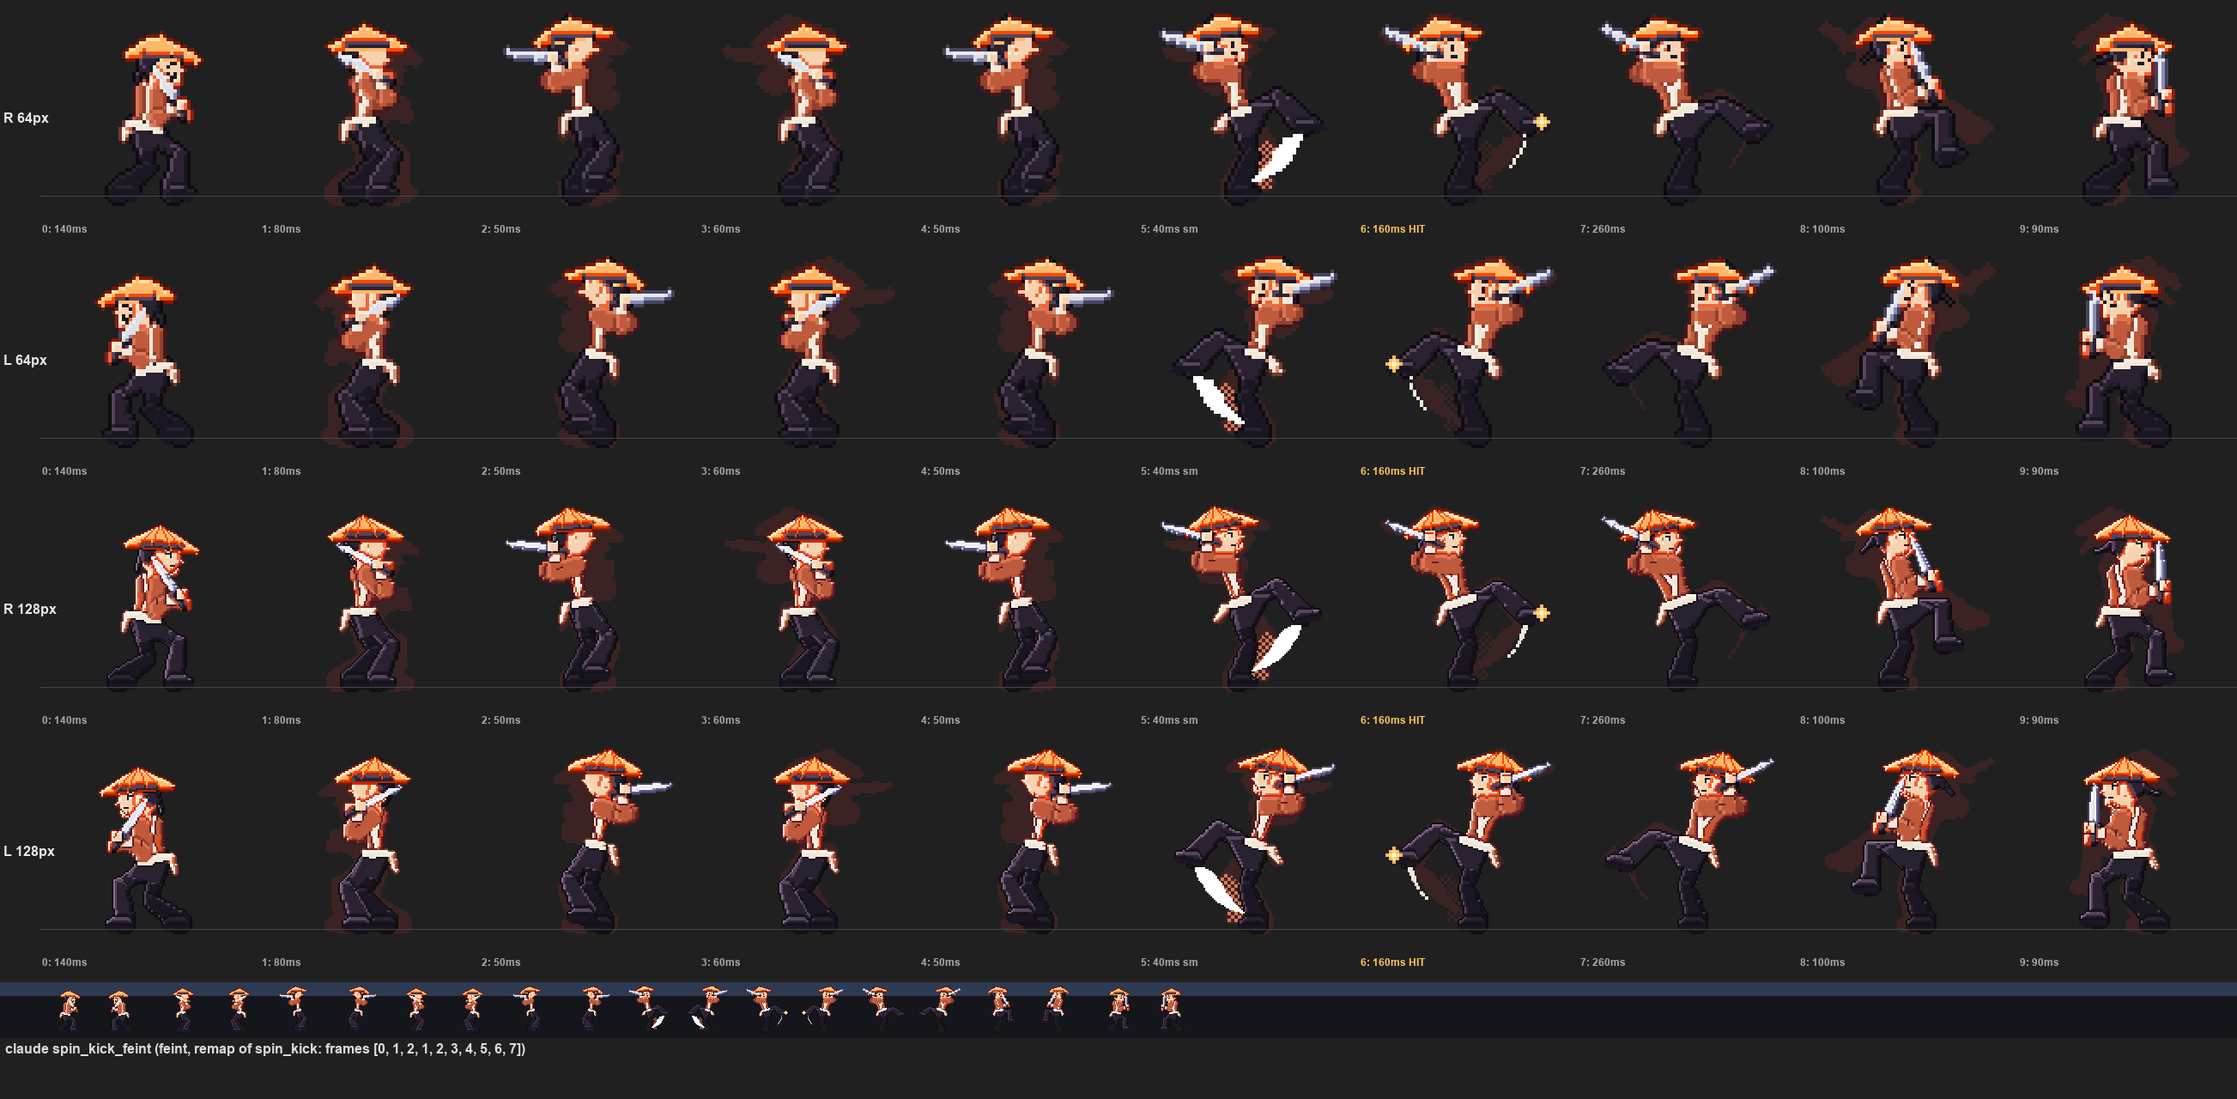
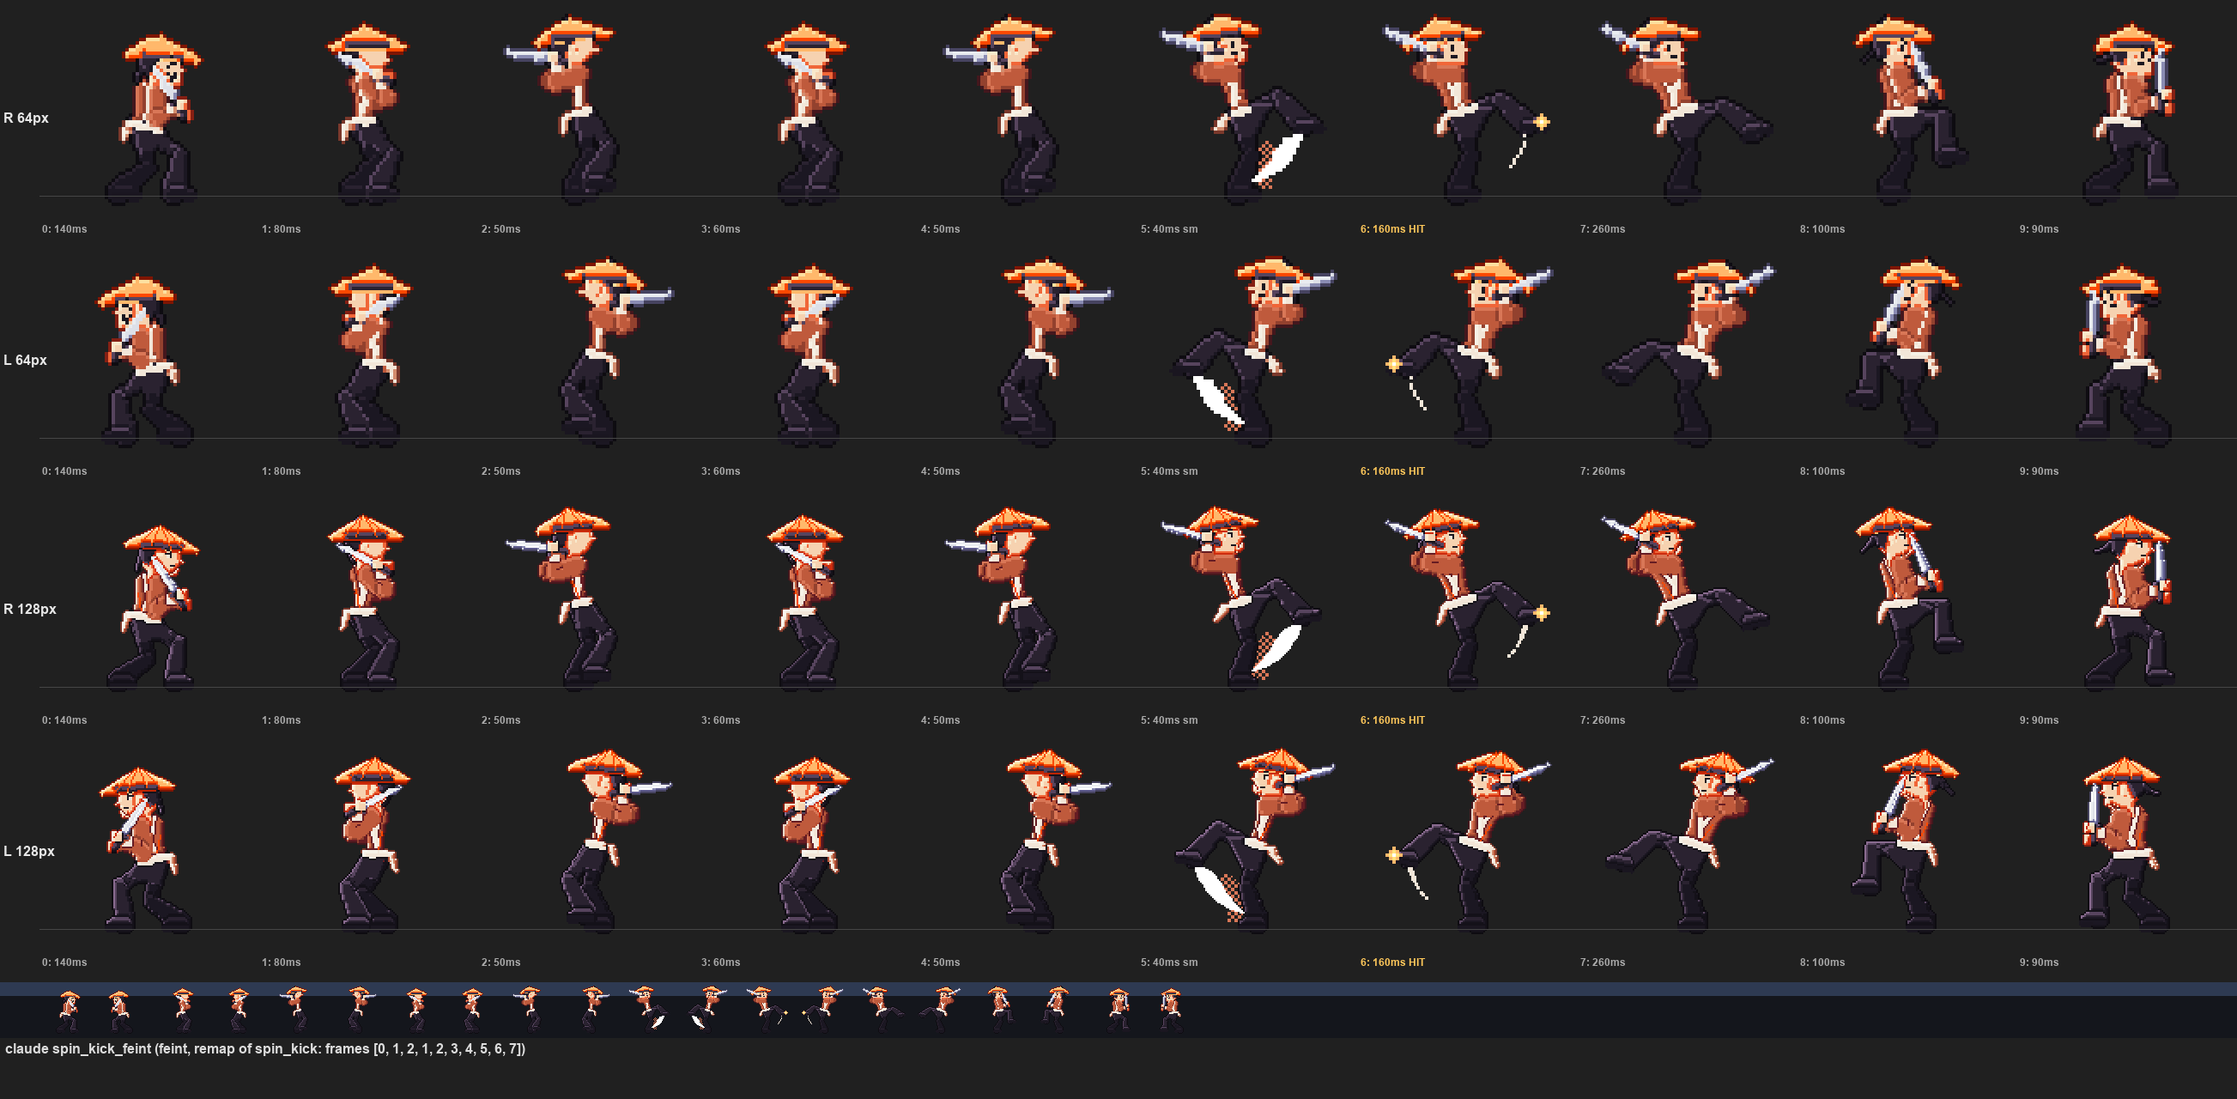
Learning: a spin that really turns, a ghost-pixel budget, clean review sheets
Review of claude-iai_slash_spiral-4x.png against the "super clean" bar:
- spin: the old variant was a side-on coil that read as the base move. It now
  inserts a back-turned frame (the coil drawn from the other facing, hip kept on
  the anchor column: hips and shoulders swap) and sweeps the smear from behind
  the back. QA: a spin must contain a frame matching the base's other facing by
  >= 0.05 IoU more than its own facing, else "never turns the body" (rejects 10
  near-symmetric spins over Claude / Codex / Knight; 11 pass).
- The dark-red smudges were the review sheet's onion skin, not sprite pixels
  (audited: no semi-transparent pixels, no foreign colours, no afterimage keys).
  The onion skin is now opt-in (--onion) and labelled when on, and QA gets a
  ghost-pixel budget: no stray pixels off the body / weapon / effects on any
  non-smear frame unless the key authors an afterimage.
- Fixed while adding it: a reused variable made the reach check skip silently;
  a reach check that cannot run now fails.
- movegen VERSION 2 (cached spins are re-made). 18 previews regenerated, plus
  qa/learning/claude-iai_slash_spiral-before-after.png. Tests: spin must turn,
  an injected afterimage smudge is caught.

diff --git a/art/evolve.py b/art/evolve.py
@@ -37,7 +37,7 @@ if str(Path(__file__).resolve().parent.parent) not in sys.path:      # minis_cor
     sys.path.insert(0, str(Path(__file__).resolve().parent.parent))
 from minis_core.movegen import *  # noqa: F401,F403,E402  (the remap tier, ids, names, timing / silhouette QA, the cache)
 from minis_core.movegen import (_round10, _desc, _mask, _iou, _index_path, _read_index, _write_index,  # noqa: F401,E402
-                                VERSION, REMAP_OPS, RENDER_OPS, OPS, MAX_FRAMES, CACHE_MAX_BYTES, SIZES)
+                                REMAP_OPS, RENDER_OPS, OPS, MAX_FRAMES, CACHE_MAX_BYTES, SIZES)
 
 CAP = {1: 31, 2: 63}                         # colours WITHOUT transparency per RES (art/build_fighters.CAPS minus one)
 _ART = None
@@ -164,21 +164,34 @@ def _pose_variant(character, base, op, seed, src_char=None):
                 ps = replace(ps, hf=(ps.hf[0] * 1.08, ps.hf[1] * 1.08))     # a longer coil
             out.append((ps, ms))
     elif op == 'spin':
+        # a real turn of the whole body: a side-on coil (shoulders square to the camera), then a BACK-TURNED key (the coil
+        # drawn from the other facing: hips and shoulders swapped, the back to the opponent; render_frames swaps that
+        # frame's facings), then the smear sweeps the blade round from behind the back into the contact
+        flip = []
         for i, (ps, ms) in enumerate(frames):
             if i == s0:
                 prev = frames[i - 1][0]
                 wa = (prev.wa if prev.wa is not None else -60.0) + (120.0 if rng.random() < 0.5 else -120.0)
-                spin = replace(prev, turn=0.35, lean=prev.lean - 4, hf=(-prev.hf[0] * 0.8, prev.hf[1]), wa=((wa + 180) % 360) - 180,
-                               face='g', dx=1.0)
-                out.append((spin, 70))
-                ps = replace(ps, smear_f=(spin.hf if ps.smear_f else ps.smear_f), ghost=())
+                side = replace(prev, turn=0.35, lean=prev.lean - 4, hf=(-prev.hf[0] * 0.8, prev.hf[1]), wa=((wa + 180) % 360) - 180,
+                               face='g', dx=1.0, smear_f=(), smear_b=(), smear_ff=(), smear_fb=(), fx=(), ghost=())
+                back = replace(prev, turn=0.7, lean=prev.lean + 2, face='g', dx=1.0, smear_f=(), smear_b=(), smear_ff=(), smear_fb=(),
+                               fx=(), ghost=())
+                out.append((side, 70))
+                flip.append(len(out))
+                out.append((back, 60))
+                if ps.smear_f:                                    # the arc starts far behind the back: a wide crescent
+                    ps = replace(ps, smear_f=(-abs(prev.hf[0]) - 6, prev.hf[1] - 2), ghost=())
+                elif ps.smear_ff:
+                    ps = replace(ps, smear_ff=(-abs(ps.ff[0]) - 4, ps.ff[1]), ghost=())
             out.append((ps, ms))
     else:                                                        # mimic: the poses as the source draws them, this body's weapon
         out = frames
     mv = dict(mv0, frames=out)
     sm2 = [i for i, (ps, _) in enumerate(out) if rig.is_smear(ps)]
     mv['smear_frames'] = sm2
-    mv['hit_frame'] = hf + (1 if op == 'spin' else 0)
+    mv['hit_frame'] = hf + (2 if op == 'spin' else 0)
+    if op == 'spin':
+        mv['flip_frames'] = flip
     ms = [m for _, m in out]
     ms = dedupe(ms, keep=set(sm2))
     mv['frames'] = [(ps, m) for (ps, _), m in zip(out, ms)]
@@ -209,14 +222,28 @@ def _pose_variant(character, base, op, seed, src_char=None):
 
 
 def render_frames(character, mv, res):
-    """The variant's frames through the real builder at `res`: [dict(r, l, buf, pose, ms, meta)]."""
+    """The variant's frames through the real builder at `res`: [dict(r, l, buf, pose, ms, meta)].  A `flip_frames` key
+    (the spin's back-turned frame) is drawn from the other facing: its right and left images swap, shifted so the hip
+    stays on that facing's anchor column, and its part buffer is mirrored the same way (the QA reads it)."""
+    from PIL import Image
     rig, moves, roster, BF = _art()
     ch = roster.get(character)
     rig.set_res(res)
     try:
-        return BF.render_move(ch, '_learned', mv, None)
+        fr = BF.render_move(ch, '_learned', mv, None)
+        cw, hip = rig.cell_px(), rig.hip_x_px()
     finally:
         rig.set_res(1)
+    shift = hip - (cw - 1 - hip)                       # where the left sheet's hip sits, relative to the right sheet's
+    for i in mv.get('flip_frames') or ():
+        f = fr[i]
+        r2, l2 = Image.new('RGBA', f['r'].size, (0, 0, 0, 0)), Image.new('RGBA', f['l'].size, (0, 0, 0, 0))
+        r2.paste(f['l'], (shift, 0))
+        l2.paste(f['r'], (-shift, 0))
+        b2 = Image.new(f['buf'].mode, f['buf'].size, 0)
+        b2.paste(f['buf'].transpose(Image.FLIP_LEFT_RIGHT), (shift, 0))
+        fr[i] = dict(f, r=r2, l=l2, buf=b2, flipped=True)
+    return fr
 
 
 # ---------------------------------------------------------------- QA on rendered frames
@@ -240,7 +267,26 @@ def novelty(frames, base_frames):
     return min(max(_iou(_mask(f['r']), b) for b in bm) for f in frames)
 
 
-def qa(character, mv, frames, res, base_palette, idle_frame, min_reach=10.0, base_frames=None):
+SPIN_TURN_MIN = 0.05          # the spin's back-turned frame must match the base's other facing by this margin
+GHOST_BUDGET = 0              # stray opaque pixels allowed off the body / weapon / effects on a non-smear frame
+
+
+def ghost_pixels(im, buf):
+    """Opaque pixels of a frame that no rig part (body, weapon, cloth, effect) covers and that are not the 1 px outline
+    around one: afterimage copies, smudges.  `buf` is the rig's part-id buffer of the same frame."""
+    a, b = im.getchannel('A').load(), buf.load()
+    w, h = im.size
+    n = 0
+    for y in range(h):
+        for x in range(w):
+            if a[x, y] and not b[x, y]:
+                if not any(0 <= x + dx < w and 0 <= y + dy < h and b[x + dx, y + dy]
+                           for dx in (-2, -1, 0, 1, 2) for dy in (-2, -1, 0, 1, 2)):
+                    n += 1
+    return n
+
+
+def qa(character, mv, frames, res, base_palette, idle_frame, min_reach=10.0, base_frames=None, base_frames_l=None):
     """-> [failures] for one rendered variant at `res` (empty = clean).  `frames` from render_frames; `base_palette` the
     character's own sheet colours (RGB set) at that res; `idle_frame` its idle frame 0 (right-facing) at that res."""
     rig, moves, roster, BF = _art()
@@ -313,6 +359,25 @@ def qa(character, mv, frames, res, base_palette, idle_frame, min_reach=10.0, bas
         nv = novelty(frames, base_frames)
         if nv >= NOVELTY_IOU:
             bad.append(f'no new shape: every frame matches the base move (IoU {nv:.2f})')
+    # a spin must really turn: one frame matches the base move's OTHER-facing frames clearly better than its own-facing ones
+    if mv.get('flip_frames') is not None:
+        turned = 0.0
+        if base_frames_l and base_frames:
+            for f in frames:
+                m = _mask(f['r'])
+                own = max(_iou(m, _mask(b)) for b in base_frames)
+                other = max(_iou(m, _mask(b)) for b in base_frames_l)
+                turned = max(turned, other - own)
+        if turned < SPIN_TURN_MIN:
+            bad.append(f'the spin never turns the body (best turned-frame margin {turned:.2f})')
+    # ghost-pixel budget: outside a smear (and the authored afterimages of a key with `ghost`) nothing may sit off the body
+    for i, f in enumerate(frames):
+        ps = f['pose']
+        if i in set(sm) or ps.ghost or ps.flash or (i and rig.is_smear(frames[i - 1]['pose'])):
+            continue
+        stray = ghost_pixels(f['r'], f['buf'])          # (not `n`: that is the frame count the reach check below reads)
+        if stray > GHOST_BUDGET:
+            bad.append(f'frame {i}: {stray} stray pixels off the body (afterimage outside a smear)')
     # reach, measured from the striking pixels
     reach = None
     if hf is not None and 0 <= hf < n:
@@ -323,6 +388,8 @@ def qa(character, mv, frames, res, base_palette, idle_frame, min_reach=10.0, bas
             rig.set_res(1)
         if reach is None or reach < min_reach * S:
             bad.append(f'reach {reach} under {min_reach * S}')
+    else:
+        bad.append(f'no contact frame to measure the reach on (hit_frame {hf} of {n})')   # a check that cannot run fails
     # colours: inside the cap, and nothing the character's own sheet does not have
     cols = _colours([f[s] for f in frames for s in ('r', 'l')])
     if len(cols) > CAP[res]:
@@ -335,14 +402,14 @@ def qa(character, mv, frames, res, base_palette, idle_frame, min_reach=10.0, bas
 
 
 # ---------------------------------------------------------------- build a render variant into the cache
-def _base_frames(character, base, res):
-    """The character's own row `base` (right-facing) at `res`, or [] when it has none (a borrowed move)."""
+def _base_frames(character, base, res, facing=1):
+    """The character's own row `base` (right-facing, or `facing`) at `res`, or [] when it has none (a borrowed move)."""
     try:
         from minis_core.atlas import Atlas
         a = Atlas(character, hd=(res == 2))
         if base not in a.anim:
             return []
-        return [a.frame_image(base, i, 1) for i in range(len(a.anim[base]['frames']))]
+        return [a.frame_image(base, i, facing) for i in range(len(a.anim[base]['frames']))]
     except Exception:
         return []
 
@@ -374,7 +441,8 @@ def build(data_dir, character, base, op, seed, src_char=None, how='mastery', mov
     for res in sizes:
         frames = render_frames(character, mv, res)
         pal, idle = _sheet_palette(character, res)
-        bad, reach = qa(character, mv, frames, res, pal, idle, base_frames=_base_frames(character, base, res))
+        bad, reach = qa(character, mv, frames, res, pal, idle, base_frames=_base_frames(character, base, res),
+                        base_frames_l=_base_frames(character, base, res, -1))
         if bad:
             failures += [f'res {res}: {b}' for b in bad]
             continue
@@ -416,7 +484,7 @@ def _new_sheet(cw, n):
 
 
 # ---------------------------------------------------------------- review sheets (the owner's bar: every frame clean, at 4x)
-def review_sheet(character, mv, frames_by_res, label):
+def review_sheet(character, mv, frames_by_res, label, onion=False):
     """One PNG: both facings at 4x (RES 1) over an onion skin of the previous frame, ms / HIT / smear labels, the 128 px
     frames at 2x below, and a 1x strip on a taskbar mock."""
     from PIL import Image, ImageDraw, ImageFont
@@ -444,7 +512,7 @@ def review_sheet(character, mv, frames_by_res, label):
             d.text((4, y + cell // 2), f'{side.upper()} {64 * res}px', fill=(230, 230, 230), font=big)
             for i, f in enumerate(fr):
                 x = lab + i * cell
-                if i > 0:
+                if onion and i > 0:                     # review aid only (--onion): the previous frame's silhouette, not in the sprite
                     prev = fr[i - 1][side].resize((cell, cell), Image.NEAREST).getchannel('A')
                     ghost = Image.new('RGB', (cell, cell), (110, 40, 40))
                     im.paste(ghost, (x, y), prev.point(lambda v: 90 if v else 0))
@@ -465,7 +533,8 @@ def review_sheet(character, mv, frames_by_res, label):
             break
         for k, side in enumerate(('r', 'l')):
             im.paste(f[side], (x + k * 64, y), f[side])
-    d.text((6, y + 68), label, fill=(220, 220, 220), font=big)
+    d.text((6, y + 68), label + ('   [dark red = onion skin of the previous frame: a review aid, not in the sprite]' if onion else ''),
+           fill=(220, 220, 220), font=big)
     return im
 
 
@@ -509,6 +578,7 @@ def _cli(argv=None):
     r.add_argument('--seed', type=int, default=1)
     r.add_argument('--mimic-from', default=None)
     r.add_argument('--one-sheet', action='store_true', help='also stack every variant into one tall PNG per character')
+    r.add_argument('--onion', action='store_true', help='draw the previous frame faintly behind each frame (a review aid)')
     b = sub.add_parser('build', help='render ONE variant into the learned-move cache (minis_core.learning spawns this out of process)')
     b.add_argument('character')
     b.add_argument('base')
@@ -564,7 +634,7 @@ def _cli(argv=None):
                     for res in SIZES:
                         at = Atlas(a.character, hd=(res == 2))
                         fbr[res] = [dict(r=at.frame_image(b, f['src'], 1), l=at.frame_image(b, f['src'], -1), ms=f['ms']) for f in got['frames']]
-                    sh = review_sheet(a.character, got, fbr, f'{a.character} {mid} ({op}, remap of {b}: frames {got["remap"]})')
+                    sh = review_sheet(a.character, got, fbr, f'{a.character} {mid} ({op}, remap of {b}: frames {got["remap"]})', onion=a.onion)
                     pth = out / f'{a.character}-{mid}-4x.png'
                     sh.save(pth)
                     sheets.append(sh)
@@ -580,7 +650,8 @@ def _cli(argv=None):
             for res in SIZES:
                 fr = render_frames(a.character, mv, res)
                 pal, idle = _sheet_palette(a.character, res)
-                bad, reach = qa(a.character, mv, fr, res, pal, idle, base_frames=_base_frames(a.character, b, res))
+                bad, reach = qa(a.character, mv, fr, res, pal, idle, base_frames=_base_frames(a.character, b, res),
+                                base_frames_l=_base_frames(a.character, b, res, -1))
                 frames_by_res[res] = fr
                 bad_all += [f'res {res}: {x}' for x in bad]
             mid = variant_id(b, op, a.seed)
@@ -591,7 +662,7 @@ def _cli(argv=None):
             n_pass += 1
             print(f'PASS   {a.character} {mid} ({op}{", from " + sc if sc else ""}): {[m for _, m in mv["frames"]]} hit {mv["hit_frame"]}')
             if a.cmd == 'review':
-                sh = review_sheet(a.character, mv, frames_by_res, f'{a.character} {mid} ({op}{", from " + sc if sc else ""})')
+                sh = review_sheet(a.character, mv, frames_by_res, f'{a.character} {mid} ({op}{", from " + sc if sc else ""})', onion=a.onion)
                 p = out / f'{a.character}-{mid}-4x.png'
                 sh.save(p)
                 sheets.append(sh)

diff --git a/tests/test_learning.py b/tests/test_learning.py
@@ -108,7 +108,8 @@ class Synthesis(unittest.TestCase):
         for res in (1, 2):
             fr = EV.render_frames('claude', mv, res)
             pal, idle = EV._sheet_palette('claude', res)
-            bad, reach = EV.qa('claude', mv, fr, res, pal, idle)
+            bad, reach = EV.qa('claude', mv, fr, res, pal, idle, base_frames=EV._base_frames('claude', 'iai_slash', res),
+                               base_frames_l=EV._base_frames('claude', 'iai_slash', res, -1))
             self.assertEqual(bad, [], res)
             self.assertGreater(reach, 10 * res)
         # a colour the character's sheet does not have, a frame that floats, even timing: all caught
@@ -146,6 +147,40 @@ class Synthesis(unittest.TestCase):
         hd = L.LearnedAtlas(Library(hd=True)['claude'])
         self.assertTrue(L.load_row(hd, ['claude', 'cross', 'amplify', 1, None, 'mastery'], data_dir=d))
         self.assertEqual(hd.frame_image('cross_grand', 2, 1).size, tuple(hd.cell))
+
+    @unittest.skipUnless(EV is not None and EV.available(), 'the rig (art/) is not here')
+    def test_a_spin_must_turn_the_body(self):
+        """Review finding: the first spin was a side-on coil that read as the base move.  A spin now carries a back-turned
+        frame (drawn from the other facing) and must match the base's other facing there; one that never turns is rejected."""
+        mv, _ = EV._pose_variant('claude', 'iai_slash', 'spin', 1)
+        fr = EV.render_frames('claude', mv, 1)
+        self.assertEqual(mv['flip_frames'], [3])
+        self.assertTrue(fr[3].get('flipped'))
+        R, Lf = EV._base_frames('claude', 'iai_slash', 1), EV._base_frames('claude', 'iai_slash', 1, -1)
+        m = EV._mask(fr[3]['r'])
+        self.assertGreater(max(EV._iou(m, EV._mask(b)) for b in Lf), max(EV._iou(m, EV._mask(b)) for b in R) + 0.2)
+        meta, bad = EV.build(str(Path(tempfile.mkdtemp())), 'claude', 'jab', 'spin', 1)        # a near-symmetric coil
+        self.assertIsNone(meta)
+        self.assertTrue(any('never turns' in b for b in bad), bad)
+
+    @unittest.skipUnless(EV is not None and EV.available(), 'the rig (art/) is not here')
+    def test_an_afterimage_smudge_outside_a_smear_is_caught(self):
+        """The ghost-pixel budget: a faded copy of the body left behind on a recovery frame fails QA; the real frames have
+        none (every redrawn variant passes it)."""
+        mv, _ = EV._pose_variant('claude', 'cross', 'amplify', 1)
+        fr = EV.render_frames('claude', mv, 1)
+        for i, f in enumerate(fr):
+            if i not in mv['smear_frames']:
+                self.assertEqual(EV.ghost_pixels(f['r'], f['buf']), 0, i)
+        i = len(fr) - 2
+        im = fr[i]['r'].copy()
+        smudge = fr[i]['r'].copy()
+        smudge.putalpha(smudge.getchannel('A').point(lambda v: 90 if v else 0))
+        im.alpha_composite(smudge, (-12, 0))                      # a translucent copy 12 px behind the body
+        fr[i] = dict(fr[i], r=im)
+        pal, idle = EV._sheet_palette('claude', 1)
+        bad, _ = EV.qa('claude', mv, fr, 1, pal, idle)
+        self.assertTrue(any('stray pixels' in b for b in bad), bad)
 
     def test_names_are_original_and_generic(self):
         self.assertEqual(EV.display_name('iai_slash_ii', 'iai_slash', 'retime'), 'Iai Slash II')

diff --git a/minis_core/movegen.py b/minis_core/movegen.py
@@ -17,7 +17,7 @@ from __future__ import annotations
 import json, os, random, time
 from pathlib import Path
 
-VERSION = 1                                  # bump when a variant's frames would change: cached renders are re-made
+VERSION = 2                                  # bump when a variant's frames would change: cached renders are re-made
 REMAP_OPS = ('retime', 'twin', 'feint')
 RENDER_OPS = ('amplify', 'spin', 'mimic')
 OPS = REMAP_OPS + RENDER_OPS
